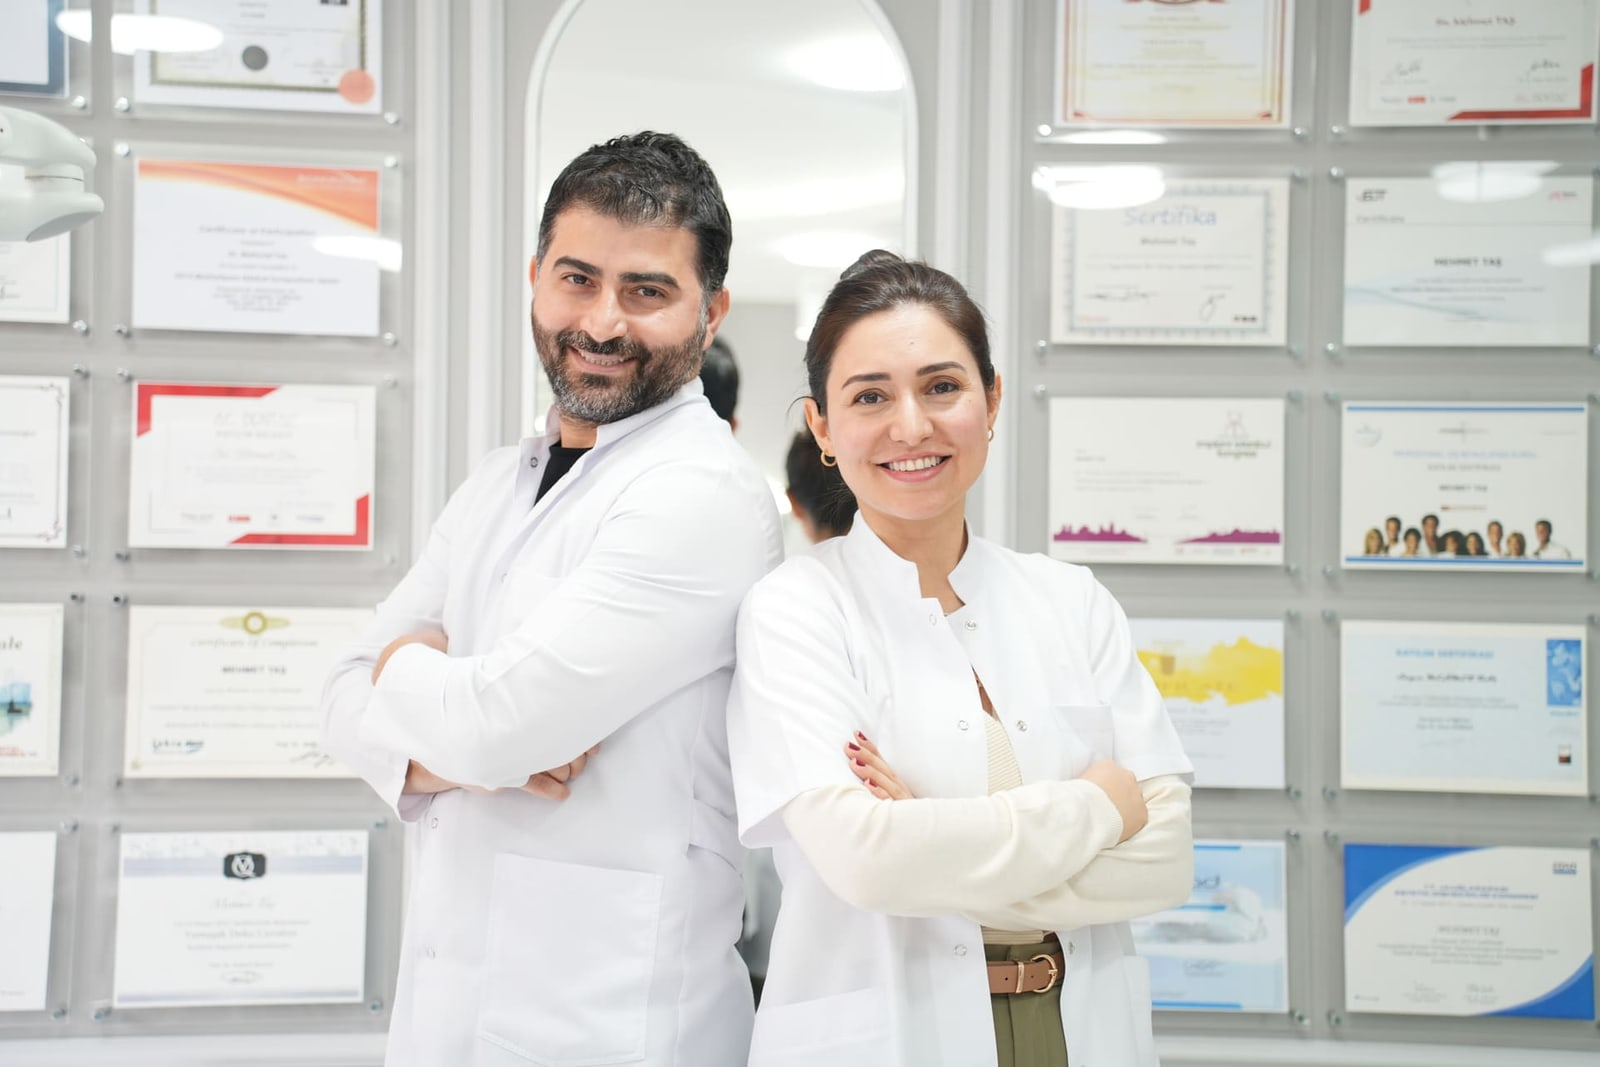
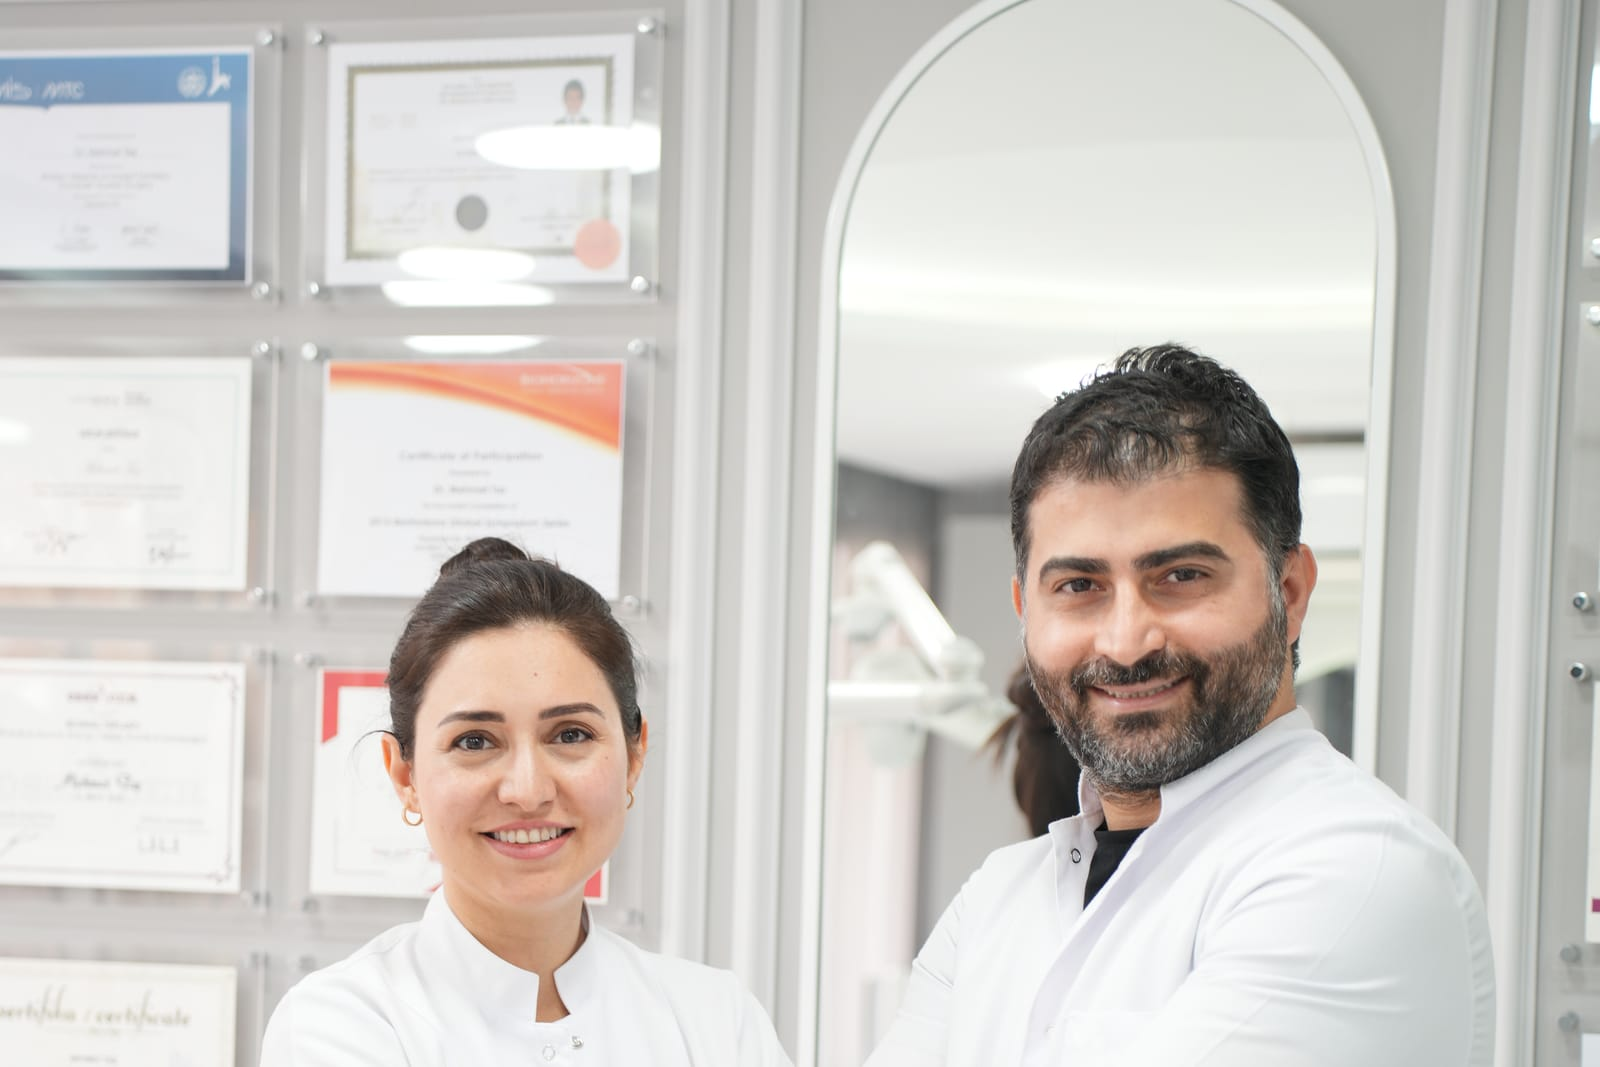
Ana sayfa hero fotografi guncellendi

diff --git a/public/index.html b/public/index.html
@@ -48,7 +48,7 @@
 <main id="icerik">
 
 <section class="hero-full" aria-label="Ana sayfa">
-  <div class="hero-bg"><picture><source srcset="/img/klinik-oda.webp" type="image/webp"><img src="/img/klinik-oda.jpg" alt="Özel DentTEK tedavi odası" width="1480" height="982" fetchpriority="high"></picture></div>
+  <div class="hero-bg"><picture><source srcset="/img/hero-ekip.webp" type="image/webp"><img src="/img/hero-ekip.jpg" alt="Dt. Aycan Işık Taş ve Msc. Dt. Mehmet Taş, Özel DentTEK" width="1480" height="982" fetchpriority="high"></picture></div>
   <div class="hero-shade" aria-hidden="true"></div>
   <div class="wrap hero-full-in">
     <div class="hero-copy">
